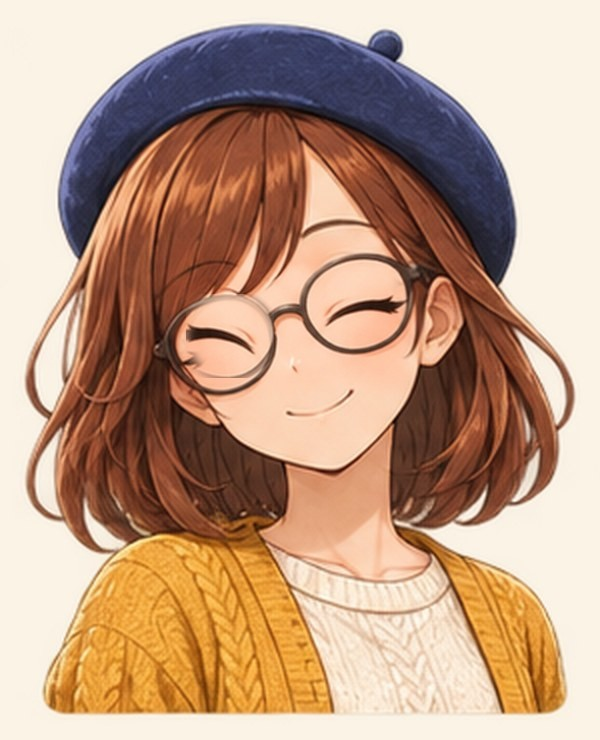
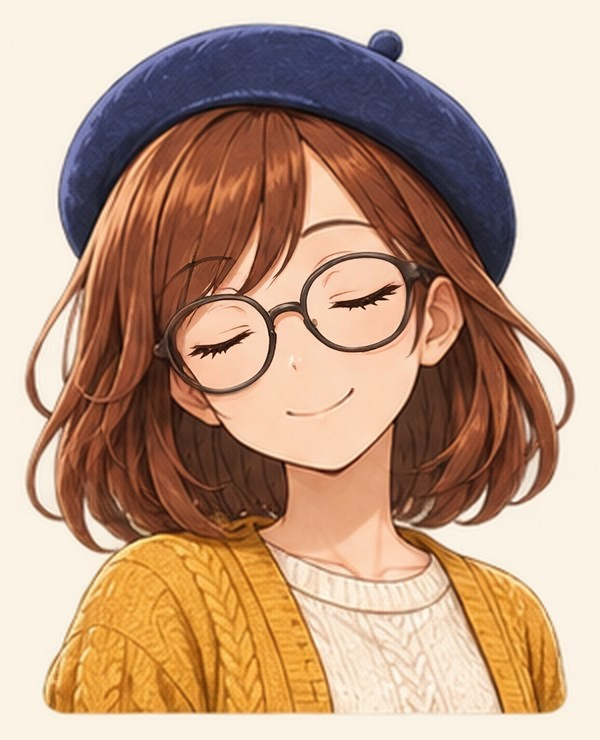
瞬きを作り直し・タイルの継ぎ目を修正

Changed region(s): [[0.27, 0.3108, 0.69, 0.5284]]

diff --git a/index.html b/index.html
@@ -91,6 +91,15 @@
   // ---- メッシュ変形レンダラ ----
   var COLS = 10, ROWS = 13;
   function drawTri(img, sx0, sy0, sx1, sy1, sx2, sy2, dx0, dy0, dx1, dy1, dx2, dy2){
+    // タイルの継ぎ目消し：宛先三角形を重心から少しだけ広げて隣と重ねる
+    var cx = (dx0 + dx1 + dx2) / 3, cy = (dy0 + dy1 + dy2) / 3;
+    var ex = [dx0, dx1, dx2], ey = [dy0, dy1, dy2];
+    for (var i = 0; i < 3; i++) {
+      var vx = ex[i] - cx, vy = ey[i] - cy;
+      var len = Math.sqrt(vx * vx + vy * vy);
+      if (len > 0.01) { ex[i] += vx / len * 0.9; ey[i] += vy / len * 0.9; }
+    }
+    dx0 = ex[0]; dy0 = ey[0]; dx1 = ex[1]; dy1 = ey[1]; dx2 = ex[2]; dy2 = ey[2];
     ctx.save();
     ctx.beginPath();
     ctx.moveTo(dx0, dy0); ctx.lineTo(dx1, dy1); ctx.lineTo(dx2, dy2);
